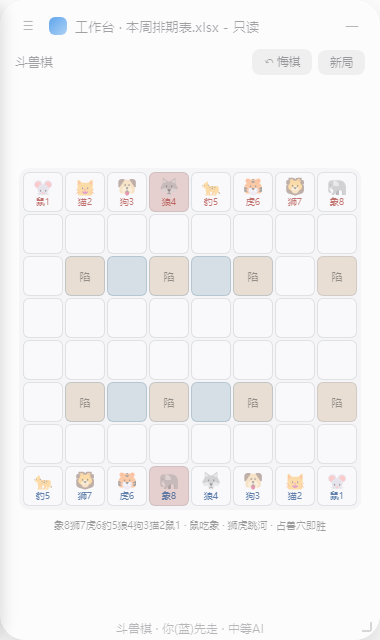
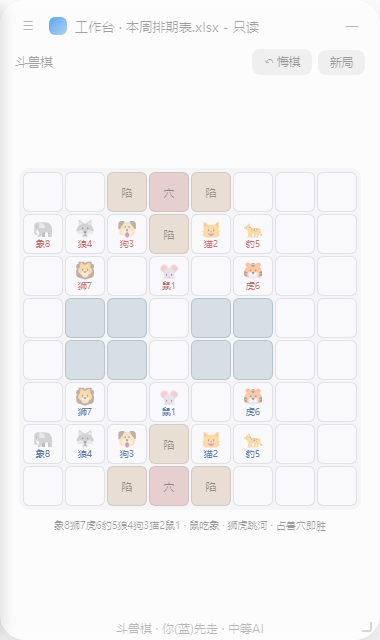
fix: 斗兽棋布局改标准两排布阵（兽穴上无子 + 狮虎贴河 + 陷阱固定集合）
- 旧布局问题：8 只动物全挤底线一排，象开局站在自家兽穴上（违反规则），狮虎远离河岸跳不了河
- 新布局（8×8 标准适配）：
  · 河区 = 行3-4 × 两块 2×2（列1-2 / 列4-5），列3 为陆桥
  · 兽穴 (0,3)/(7,3)，上面无子；陷阱 6 个 = 穴上+穴两侧
  · 前排 6 只（象狼狗·猫豹）+ 狮鼠虎贴河岸（狮虎竖跳整条河，鼠居中随时下河）
- 陷阱改固定位置集合 PITS（不随棋子覆盖变化，render/规则统一用 isPit）
- 测试：单测 16/16（新布局坐标全适配）· 冒烟全绿（重跑，上次偶发窗口销毁）
- 截图 17 已更新

diff --git a/renderer/games/animals.js b/renderer/games/animals.js
@@ -12,15 +12,19 @@
 
   const N = 8;
   // 初始布局（蓝=玩家在下，红=AI在上）
+  // 标准两排布阵（8×8 适配版）：
+  //   河区 = 行3-4 × 列1-2 与 列4-5（两块 2×2，列3 是陆地桥）
+  //   兽穴 (0,3)/(7,3)；陷阱 = 穴上(1,3)/(6,3) + 穴两侧(0,2)(0,4)/(7,2)(7,4)，共 6 个
+  //   前排 6 只（象狼狗·猫豹）+ 狮鼠虎贴河岸（狮虎可竖跳整条河，鼠居中随时下河）
   const INIT = [
-    [['r','r'], ['r','c'], ['r','d'], ['r','w'], ['r','l'], ['r','t'], ['r','s'], ['r','e']],   // 上=红（镜像对称）：鼠猫狗狼豹虎狮象
     [null, null, null, null, null, null, null, null],
-    [null, 'pit', null, 'pit', null, 'pit', null, 'pit'],
+    [['r','e'], ['r','w'], ['r','d'], null, ['r','c'], ['r','l'], null, null],
+    [null, ['r','s'], null, ['r','r'], null, ['r','t'], null, null],
     [null, null, null, null, null, null, null, null],
     [null, null, null, null, null, null, null, null],
-    [null, 'pit', null, 'pit', null, 'pit', null, 'pit'],
+    [null, ['b','s'], null, ['b','r'], null, ['b','t'], null, null],
+    [['b','e'], ['b','w'], ['b','d'], null, ['b','c'], ['b','l'], null, null],
     [null, null, null, null, null, null, null, null],
-    [['b','l'], ['b','s'], ['b','t'], ['b','e'], ['b','w'], ['b','d'], ['b','c'], ['b','r']],   // 下=蓝：豹狮虎象狼狗猫鼠（e=象）
   ];
   const DEN_R = [0, 3];   // 红方兽穴（上）
   const DEN_B = [7, 3];   // 蓝方兽穴（下）
@@ -54,10 +58,11 @@
     /* ---------- 核心规则 ---------- */
 
     // 河区：第3/5行，第2-6列（索引1-5）
-    function isRiver(r, c) { return (r === 2 || r === 5) && c >= 1 && c <= 5; }
+    function isRiver(r, c) { return (r === 3 || r === 4) && ((c >= 1 && c <= 2) || (c >= 4 && c <= 5)); }
 
-    // 陷阱：有 'pit' 标记的格子
-    function isPit(r, c) { return board[r][c] === 'pit'; }
+    // 陷阱：固定位置集合（不随棋子覆盖变化）
+    const PITS = [[1,3],[0,2],[0,4],[6,3],[7,2],[7,4]];
+    function isPit(r, c) { return PITS.some(([pr, pc]) => pr === r && pc === c); }
 
     // 兽穴
     function isDen(r, c) { return (r === DEN_R[0] && c === DEN_R[1]) || (r === DEN_B[0] && c === DEN_B[1]); }
@@ -298,7 +303,7 @@ ${boardStr()}
             cell.addEventListener('click', () => onCell(r, c));
             if (selected && selected[0] === r && selected[1] === c) cell.classList.add('sel');
             if (selected && legalMoves.some(([mr, mc]) => mr === r && mc === c)) cell.classList.add('mv');
-          } else if (v === 'pit') {
+          } else if (v === null && isPit(r, c)) {
             cell.textContent = '陷';
             cell.classList.add('pit-t');
           } else if (v === null && isDen(r, c)) {
@@ -341,7 +346,7 @@ ${boardStr()}
     }
 
     function reset() {
-      board = INIT.map(row => row.map(cell => cell === 'pit' ? 'pit' : (cell ? cell.slice() : null)));
+      board = INIT.map(row => row.map(cell => cell ? cell.slice() : null));
       turn = 'b'; over = false; winner = null; selected = null; legalMoves = []; hist = [];
       aiThinking = false;
       buildDom();

diff --git a/tools/test-animals.js b/tools/test-animals.js
@@ -44,35 +44,36 @@ function putPit(board, r, c) { board[r][c] = 'pit'; }
 }
 // 6. 陷阱里象被鼠吃
 {
-  const b = empty(); put(b, 4, 4, 'b', 'e'); putPit(b, 4, 4); put(b, 4, 3, 'r', 'r'); setBoard(b); setTurn('r');
-  t('陷阱象被鼠吃', canMove(4, 3, 4, 4) === true);
+  const b = empty(); put(b, 1, 3, 'b', 'e'); put(b, 1, 2, 'r', 'r'); setBoard(b); setTurn('r');
+  t('陷阱象被鼠吃', canMove(1, 2, 1, 3) === true);
 }
 // 7. 陷阱里象被猫吃（陷阱变1）
 {
-  const b = empty(); put(b, 4, 4, 'b', 'e'); putPit(b, 4, 4); put(b, 4, 3, 'r', 'c'); setBoard(b); setTurn('r');
-  t('陷阱象被猫吃', canMove(4, 3, 4, 4) === true);
+  const b = empty(); put(b, 1, 3, 'b', 'e'); put(b, 1, 2, 'r', 'c'); setBoard(b); setTurn('r');
+  t('陷阱象被猫吃', canMove(1, 2, 1, 3) === true);
 }
 // 8. 鼠不能进河
 {
-  const b = empty(); put(b, 3, 4, 'b', 'r'); setBoard(b); setTurn('b');
-  t('鼠不能进河', canMove(3, 4, 2, 4) === false && canMove(3, 4, 4, 4) === true);
+  const b = empty(); put(b, 2, 1, 'b', 'r'); setBoard(b); setTurn('b');
+  t('鼠不能进河', canMove(2, 1, 3, 1) === false && canMove(2, 1, 2, 0) === true);
 }
 // 9. 非鼠可进河
 {
-  const b = empty(); put(b, 3, 4, 'b', 'c'); setBoard(b); setTurn('b');
-  t('猫可进河', canMove(3, 4, 2, 4) === true);
+  const b = empty(); put(b, 2, 1, 'b', 'c'); setBoard(b); setTurn('b');
+  t('猫可进河', canMove(2, 1, 3, 1) === true);
 }
 // 10. 狮跳过河 / 不能跳非河
 {
-  const b = empty(); put(b, 7, 1, 'b', 's'); setBoard(b); setTurn('b');
-  t('狮不能跳非河', canMove(7, 1, 4, 1) === false);
-  const b2 = empty(); put(b2, 6, 1, 'b', 's'); setBoard(b2); setTurn('b');
-  t('狮跳过河', canMove(6, 1, 4, 1) === true);
+  const b = empty(); put(b, 2, 1, 'b', 's'); setBoard(b); setTurn('b');
+  t('狮跳过河(2,1→5,1)', canMove(2, 1, 5, 1) === true);
+  t('狮不能跳非河', canMove(2, 1, 6, 1) === false);   // 中间行3-4是河，行5(5,1)也是河但(6,1)非河→目标超一跳
+  const b2 = empty(); put(b2, 2, 3, 'b', 's'); setBoard(b2); setTurn('b');
+  t('狮不能走桥外直线跨非河', canMove(2, 3, 6, 3) === false);  // 列3是桥不是河，不能跳
 }
 // 11. 猫不能跳河
 {
-  const b = empty(); put(b, 6, 1, 'b', 'c'); setBoard(b); setTurn('b');
-  t('猫不能跳河', canMove(6, 1, 4, 1) === false);
+  const b = empty(); put(b, 2, 1, 'b', 'c'); setBoard(b); setTurn('b');
+  t('猫不能跳河', canMove(2, 1, 5, 1) === false);
 }
 // 12. 不能进己方兽穴
 {
